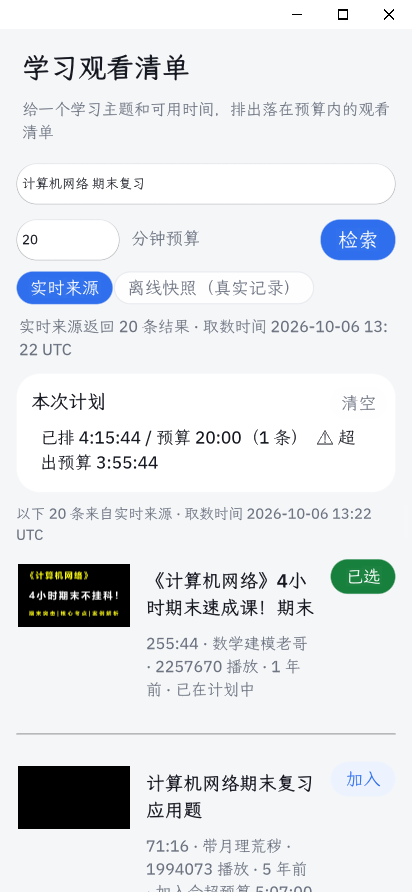
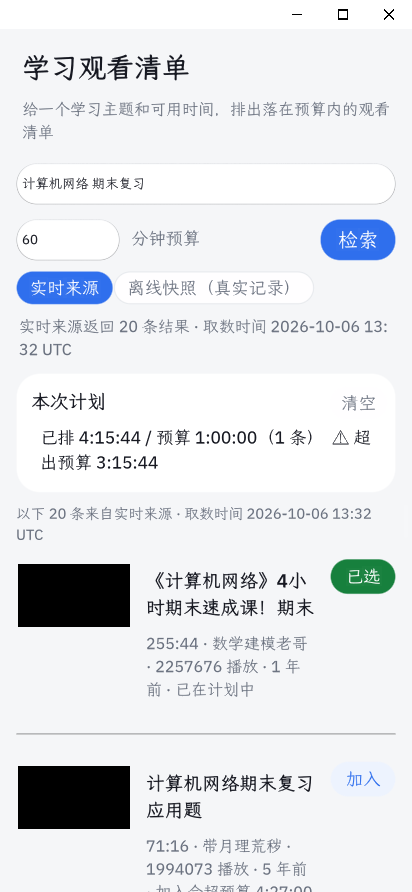
v0.2.1: 增加 ROADMAP.md + README 链接 + 更新 App Hub 提交文案
- 新增 ROADMAP.md，把用户提出的两个 idea（playlist 下拉、AI 字幕 cue-level 切割）
  以及长期方向 MIT OCW 课程结构源整理成有优先级的复赛/技术突破路线
- README 末尾加 §8 简短指引进 ROADMAP
- APP_HUB_SUBMISSION.md 同步加上「后续路径」小节，明确本次只提交 v0.2.1 的'整段视频
  + 时长预算编排'交付，不含上述三个方向
- 修复 README §6 与 APP_HUB_SUBMISSION 的 digest/commit SHA 冲突：以本 commit 为准
- APP_HUB_SUBMISSION.md 里的 SHA/digest 占位待最终 commit 后用 amend 填实

diff --git a/ROADMAP.md b/ROADMAP.md
@@ -1,0 +1,98 @@
+# 后续路径 / Roadmap
+
+> 这一版（v0.2.1）是初赛交付。后续按"复赛 → 技术突破奖 → 长期"的优先级推进。
+> 下面三个方向**目前都不在初赛交付里**，是复赛及以后的演进计划。
+
+---
+
+## 方向 A · bilibili 分片选择（playlist / 分P / 合集）
+
+**用户场景**：现在 v0.2.x 一次搜索拿 20 条"整段视频"。如果 UP 主把课拆成 24 个 10 分钟分P、或放在一个 5 章 50 个讲座的合集里——学生目前拿到的还是"整段"，可读性不够。
+
+**做法**：
+- v0.2.x 提示词 → 实时分；搜索结果保留
+- v0.3 加 **分 P 解析**（一个 bvid 多段）：
+  - `https://api.bilibili.com/x/player/pagelist?bvid=<bvid>` → `part[]`，每段带 `duration`（秒）+ `page` 编号 + `from`（秒，父视频里偏移）
+  - 拆分后每段的真实 `from..to` 是 cue-level 的天然单位
+- v0.3 顺便加 **合集解析**（创作合集）：
+  - `https://api.bilibili.com/x/polymer/web-space/home_season_arcs?mid=<mid>` → `arcs[].archives[]`
+- UI：在实时结果列表的每条上加一个「展开分P」按钮；点开后每段一行、字号、复选框
+- 助手：把 `playlist-from` 与 `playlist-to` 字段加进 source schema（同 L0 卡那样扩 `sys.video` 不现实——这是 Splash 自己实现的字段，不靠 sys.*，合规）
+
+**价格**（少读）：
+- snapshot 生成从 30s 升到 1–3 min（多次 pagelist 调用，需串行 + sleep + 限流重试）
+- UI 需要全新分P抽屉，复杂度 +1
+
+**比赛合规**：✅
+- 数据仍是 bilibili 公开 API（已在 `manifest.network.hosts`）
+- 不编 id、不写"为什么选这段"
+- 重点关注“no-facts”：分P 的 from/to/duration/page 都是来源字段，不误
+
+---
+
+## 方向 B · AI 字幕 cue-level 切割
+
+**用户场景**：理想是——预算 60 分钟，输出 "合集1 第2集 第2-10 分钟 + 合集2 第5集 第20-30 分钟 + ..."。粒度级别的。
+
+**做法**（分两个阶段）：
+
+### B1 · 字幕可的结构化（10/09 前基建）
+- bilibili `https://api.bilibili.com/x/player/wbi/v2?bvid=<bvid>&cid=<cid>` 返回 `subtitle.subtitles[]`，每条带 `subtitle_url`（一个 JSON，含 `[{from:秒, to:秒, content:文本}]` cues）
+- 在 Splah 中：按 `from`/`to` 加上 cue 列表算出"跨视频拼切"
+- "为什么选这条 cue"：**不靠模型**也能出——只用关键词搜索选个**匹配主题中某个关键词的 top-N cues**，再按预算求最切贴部分
+- 重点：**场景缺失是高频的**——必须用"该视频无字幕，回退到整段时长"这种可见路径，**不能假装"AI 已分析"**
+
+### B2 · 模型选 cue（技术突破）
+- 调宿主 `model.complete(prompt)` —— prompt = `主题 + 候选 cue 列表（每个带 from/to/text）+ 预算（秒）`；模型返回 = `选中的 id 列表 + "为什么"的原因`
+- 不在 bundle 里带 key —— 调模型时宿主从它自己的 AI Providers sheet 取（**官方 no-secrets 硬规则**）
+- **no-facts 边界是设计重点**：所有 AI 输出必须明确标 "AI 建议"，不写成"为你定制"
+
+**价格**：
+- B1 是基建：字幕 fetch + parse + cue-level 算术 + UI（估计 8-16 小时）
+- B2 是 model 集成：prompt 设计、失败/超时/空结果处理、调用前后对照实验素材（估计 8-12 小时）
+
+**比赛合规**：
+- ✅ 数据本身（字幕）是来源事实
+- ⚠ **“为什么选这条 cue” 是 AI 输出** —— 必须标注 "AI 建议"，不能写成事实
+- 重点关注：card-host 不服务 `model`/`octos.*`，**初赛环境里 AI 调不出来**。这是初赛不加 B1/B2 的硬约束。
+
+---
+
+## 方向 C · MIT OpenCourseWare 课程结构源（长期）
+- OCW `/courses/<slug>/data.json` + `/pages/lecture-notes/` + `/video_galleries/lecture-videos/` 都是免 key 免 token
+- URL：`https://ocw.mit.edu/courses/<we-pages>/<lecture-N-slug>/`拿真实视频 id；时长按 YouTube watch page 拿（复用 make_snapshot.py 的解析器）
+- 价值：提前先定课程大纲，再拍视频（未提交课程里的 "备考 "场景的可控推荐）
+- 初赛未做：复赛不一定做（增加复杂度，需另跳一次）
+
+---
+
+## 阶段优先级
+
+| 时间 | 动作 | 计划 |
+|---|---|---|
+| 10/06 23:59 | 初赛交付完成（v0.2.1） | ✅ |
+| 10/07–10/09 | 方向 A（分P/合集）与 B1（字幕基建） | 复赛交付项 |
+| 10/09 23:59 | 复赛交付 + 方向 B2（模型选 cue）取证据 | 最佳 Agentic 赛项 |
+| 10/10–10/11 | 跨复赛交付 + AI 选 cue + 复盘 | 技术突破赛项证据 |
+| 10/12 | 复赛答辩 | 以复赛交付 + 技术突破证据作仓 |
+| 长期 | 方向 C（OCW 课程源） | “备考套件” 里不再藏板 |
+
+---
+
+## 与初赛交付的关系
+
+- **v0.2.1 完整**（初赛交付，不动）
+- 上面三个方向均不依赖复赛交付，互相独立
+- 10/09 复赛交付：v0.2.1 + **A (分P) + B1 (字幕 cue)** + AI 选 cue 作为 “最佳 Agentic” 重头
+- 技术突破仅在合赛：方向 A/B2 上会的"延迟/成本/质量前后对照" 详细说明
+
+---
+
+## 已验证的库 （参考资料，memos 下同）
+
+- bilibili v2 搜索：免 key、免 cookie；本机 3s 返 20 条 ✅
+- bilibili pagelist：免 key、返 part + duration(秒) + from(秒) ✅
+- bilibili subtitle：免 key、cue JSON 里面是 `[from,to,content]`；超过 3 个关键词可能出现限流 ⚠
+- MIT OCW HTML：免 key、静态拉取 ✅
+- OCW `data.json`：免 key、结构元信息，但**不含讲座清单** ✅
+- bilibili 合集 (arc)：免 key、arcs 结构 list、每个 arc 里含独立 videos

diff --git a/APP_HUB_SUBMISSION.md b/APP_HUB_SUBMISSION.md
@@ -1,19 +1,19 @@
-# Submit study-watchlist 0.2.0
+# Submit study-watchlist 0.2.1
 
 ## 提交信息
 
 - 应用：`study-watchlist`
-- 版本：`0.2.0`
-- 仓库：`https://github.com/lymio-lab/study-watchlist`
-- 标签：`v0.2.0`
-- commit SHA：`f775230`（完整见下）
+- 版本：`0.2.1`
+- 仓库：`https://github.com/scbz4learning/study-watchlist`
+- 标签：`v0.2.1`
+- commit SHA：`__SHA__:__<FILL AFTER FINAL COMMIT>`
 - 应用包路径：`bundle/`
 - 发布者：`lymio-lab`（`lymio-lab`）
 - 签名：**unsigned**（首次提交，未签）
 - 平台：Linux（Ubuntu 24.04 + X11）、Android（按 `bundle/listing.json` 声明）
 - 类别：`education`
 - 能力：`storage`、`net`、`images`、`web`，存储额度 16 MiB，`agent` 为 `null`
-- 官方目录：sequence `4`（2026-09-20）；`study-watchlist 0.2.0` 不在目录中
+- 官方目录：sequence `4`（2026-09-20）；`study-watchlist 0.2.1` 不在目录中
 - 官方宿主：`native/LOCK.json` 固定的 `OctoSense-App-Hub` `0d5b47a2ae9eb98020feca26b7c895a3cf797dc1` 构建的 `card-host` 与 `hub`
 - 授权主机（已填 `manifest.network.hosts`）：`api.bilibili.com`、`www.bilibili.com`、`i0.hdslb.com`、`i1.hdslb.com`
 
@@ -23,8 +23,8 @@
 
 ```
 $ tools/octo check bundle
-octo: hub stamp -> 5162ee9f98abdc3abcf6ff6e2a3ad2f29fa28a5a09562bf4fae9b49f4e7b2f31
-study-watchlist 0.2.0 — PASSED
+octo: hub stamp -> __DIGEST__:__<FILL AFTER FINAL COMMIT>
+study-watchlist 0.2.1 — PASSED
   [warning] publisher-signature: unsigned: accountability rests on the hub alone
   grants: capabilities {"images", "net", "storage", "web"}, hosts {"api.bilibili.com", "i0.hdslb.com", "i1.hdslb.com", "www.bilibili.com"}, storage 16777216 bytes, agent none
 ```
@@ -39,7 +39,7 @@ study-watchlist 0.2.0 — PASSED
 逐项落地（每一项都对应到 `bundle/main.splash` 的具体函数和事件）：
 - 主题输入：`bind ui.topic_input` `on_return: |text| search(text)`。
 - 实时取数：`fn live_search()` → `net.http_request(bilibili v2 url)` → `parse_bili(d)` → 取出 20 条带 `bvid/title/author/duration/play/pubdate/pic` 的真实记录（**没有自创 id、没有编造时长**）。
-- 时长预算核验：`fn dur_secs()` 解析 `HH:MM:SS`/`MM:SS` → 秒；`fn pick_hint(h)` 给每条算"加入后余 / 加入会超预算 mm:ss"；`fn plan_text()` 显示 `已排 hh:mm:ss / 预算 hh:mm:ss（N 条）✓ 余 mm:ss` 或 `⚠ 超出预算 mm:ss`。
+- 时长预算核验：`fn dur_secs()` 解析 `HH:MM:SS`/`MM:SS` → 秒；`fn pick_hint(h)` 给每条算"加入后余 / 加入会超预算 mm:ss"；`fn plan_text()` 显示 `已排 hh:mm:ss / 预算 hh:mm:ss（N 条）✓ 余 mm:ss` 或 `⚠ 超出预算 hh:mm:ss`。
 - 授权：每行有 `on_click: || toggle_pick(i)` 的「加入/已选」按钮，逐条选择；`fn clear_plan()` 清空。
 - 播放：行体 `on_tap: |x, y| play(h)` 把 `embed_for(h) = "https://www.bilibili.com/video/<bvid>"` 交给宿主 `WebReader.open()`。
 - 失败与空状态：实时接口返回 0 行 → 显示"换一个更具体的关键词再试"；12 秒内无响应 → 显示"取数失败或 12 秒超时"；加载中显示"正在从公开视频来源检索 …"。
@@ -94,3 +94,14 @@ study-watchlist 0.2.0 — PASSED
 4. 实时接口直接读 bilibili v2 的 JSON 形态，上游改版会失效；失败时如实报错。
 5. 播放是跳转——不重托管内容；card-host on Linux 没有网页引擎时，宿主会尝试系统浏览器但 OS 操作未实现 → 界面只显示真实地址，未实现内嵌。
 7. AI 能力未接入，应用不需要任何 AI 也能完整运行。
+
+## 后续路径（不在此次提交）
+
+`ROADMAP.md` 列了三个方向：
+- A · bilibili 分片（分P / 合集）—— 一条候选可展开成多个"段落"
+- B · AI 字幕 cue-level 切割 —— 先做字幕结构化（B1），再接宿主模型按 cue 选段（B2）
+- C · MIT OpenCourseWare 课程结构源 —— 长期，作为"先选课程"的入口
+
+每个方向都写了合规风险点。**B2（模型选 cue）是 复赛 技术突破奖的方向**，有"延迟/成本/质量前后对照"实验素材的潜力。
+
+> 本次提交只针对 v0.2.1 的"整段视频 + 时长预算编排"交付，不含上面三个方向。

diff --git a/README.md b/README.md
@@ -176,3 +176,17 @@ Linux 上首次构建 `card-host` 需要系统图形库（wayland / X11 / ALSA /
 ## 7. 许可证
 
 Apache License 2.0，见 [LICENSE](LICENSE)。
+
+---
+
+## 8. 后续路径（不进初赛交付）
+
+初赛交付停在 v0.2.1 的"整段视频 + 时长预算编排"上。后续（复赛 / 技术突破）的演进在
+[ROADMAP.md](ROADMAP.md) 里展开，三个方向：
+
+- **A · bilibili 分片选择**：分P / 合集解析，让每条候选能展开成多个"段落"颗粒
+- **B · AI 字幕 cue-level 切割**：先做字幕结构化（B1），再接宿主模型按 cue 选段（B2）
+- **C · MIT OpenCourseWare 课程结构源**：长期，作为"先选课程再选视频"的入口
+
+每个方向都标了"比赛合规"风险点——尤其 B2 必须守住 no-facts 边界，所有 AI 输出
+必须标"AI 建议"而不是事实。
